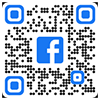
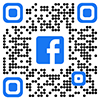
fixed qr codes

diff --git a/src/mainMenuFrame.java b/src/mainMenuFrame.java
@@ -196,7 +196,7 @@ centerlabel9.setBounds(500,390,200,200);
 JLabel centerlabel10 = new JLabel();
 centerlabel10.setForeground(new Color(21, 36, 74));
 centerlabel10.setFont(new Font("Proxima Nova", Font.PLAIN, 12));
-centerlabel10.setText("SFWE Facebook");
+centerlabel10.setText("SFWE Instagram");
 centerlabel10.setBounds(505,540, 100 , 25);
 
 //this is the SFWE facebook qr code
@@ -207,7 +207,7 @@ centerlabel11.setBounds(700,390,200,200);
 JLabel centerlabel12 = new JLabel();
 centerlabel12.setForeground(new Color(21, 36, 74));
 centerlabel12.setFont(new Font("Proxima Nova", Font.PLAIN, 12));
-centerlabel12.setText("SFWE Instagram");
+centerlabel12.setText("SFWE Facebook");
 centerlabel12.setBounds(705,540, 100 , 25);
 
 JLabel centerlabel13 = new JLabel();
@@ -270,7 +270,7 @@ footerPanel.setBackground(new Color(21, 36, 74));
 footerPanel.setPreferredSize(new Dimension(1600,75));
 footerPanel.setLayout(new BorderLayout());
 
-
+//Creating the main menu frame
 mainmenuframe.setDefaultCloseOperation(JFrame.EXIT_ON_CLOSE); //Exit out of program
 mainmenuframe.setExtendedState(JFrame.MAXIMIZED_BOTH); //Set frame to full screen
 mainmenuframe.setUndecorated(true); //remove top bar
@@ -280,10 +280,11 @@ mainmenuframe.setVisible(true); // Make the frame visible
 mainmenuframe.addKeyListener(exit); //When user presses esc the frame closes
 mainmenuframe.getContentPane().setBackground(Color.white); //Set background color
 
-
+//adding the header panel/label to the main menu frame
 headerPanel.add(headerlabel); //Add UA logo to header
 mainmenuframe.add(headerPanel,BorderLayout.NORTH); //Add header
 
+//adding all the information to the centerpanel
 centerPanel.add(centerlabel1);
 centerPanel.add(centerlabel2);
 centerPanel.add(centerlabel3);
@@ -300,6 +301,7 @@ centerPanel.add(centerlabel13);
 centerPanel.add(centerlabel14);
 centerPanel.add(centerlabel15);
 
+//adding the buttons to the main menu frame
 mainmenuframe.add(academicsButton);
 mainmenuframe.add(engagementButton);
 mainmenuframe.add(quizButton);
@@ -312,6 +314,7 @@ footerPanel.add(footerlabel);
 mainmenuframe.add(footerPanel,BorderLayout.SOUTH);//Add footer
 }
 @Override
+//Here is what happens when a button is pressed
 public void actionPerformed(ActionEvent e) {
 	if (e.getSource()== academicsButton) {
 		
@@ -345,5 +348,3 @@ public void actionPerformed(ActionEvent e) {
 }
 
 }
-
-

diff --git a/src/academicsPage.java b/src/academicsPage.java
@@ -242,10 +242,6 @@ advisorLabel2.setFont(new Font("Proxima Nova", 0, 10));
 advisorLabel2.setText("Meet with an advisor");
 advisorLabel2.setBounds(16,596, 150 , 25);
 
-
-
-
-
 //Here we create the center panel of the page
 centerPanel.setVisible(true);
 centerPanel.setBackground(new Color(226, 233, 235));
